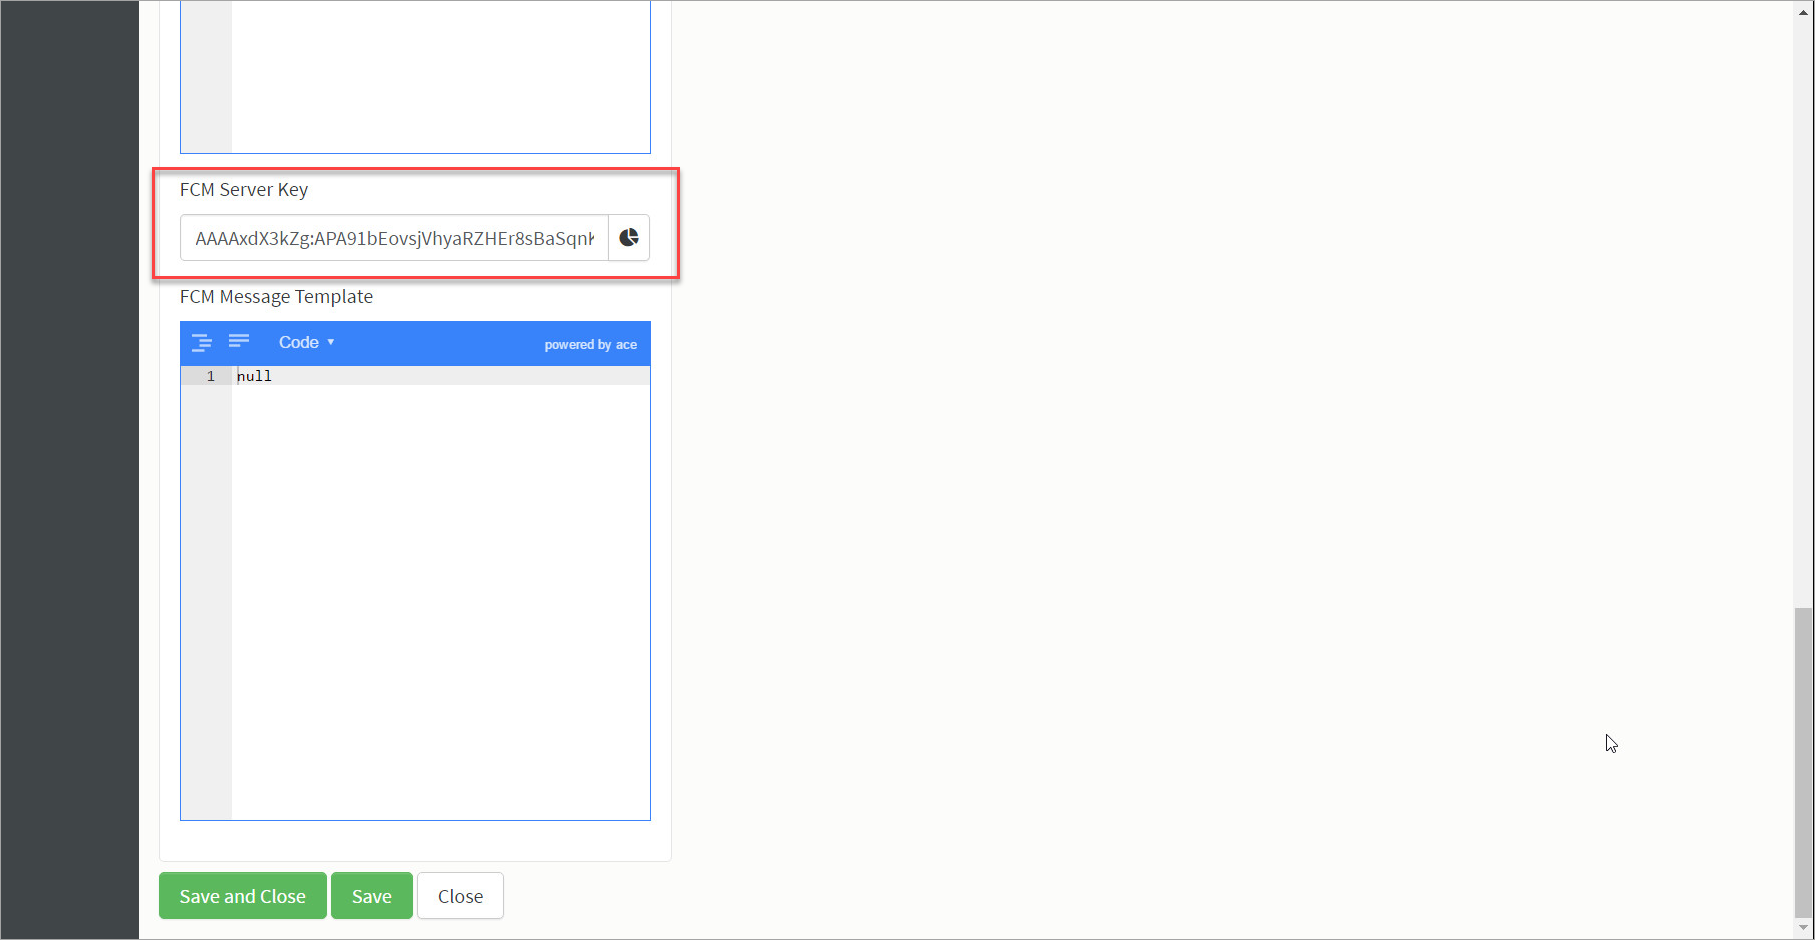
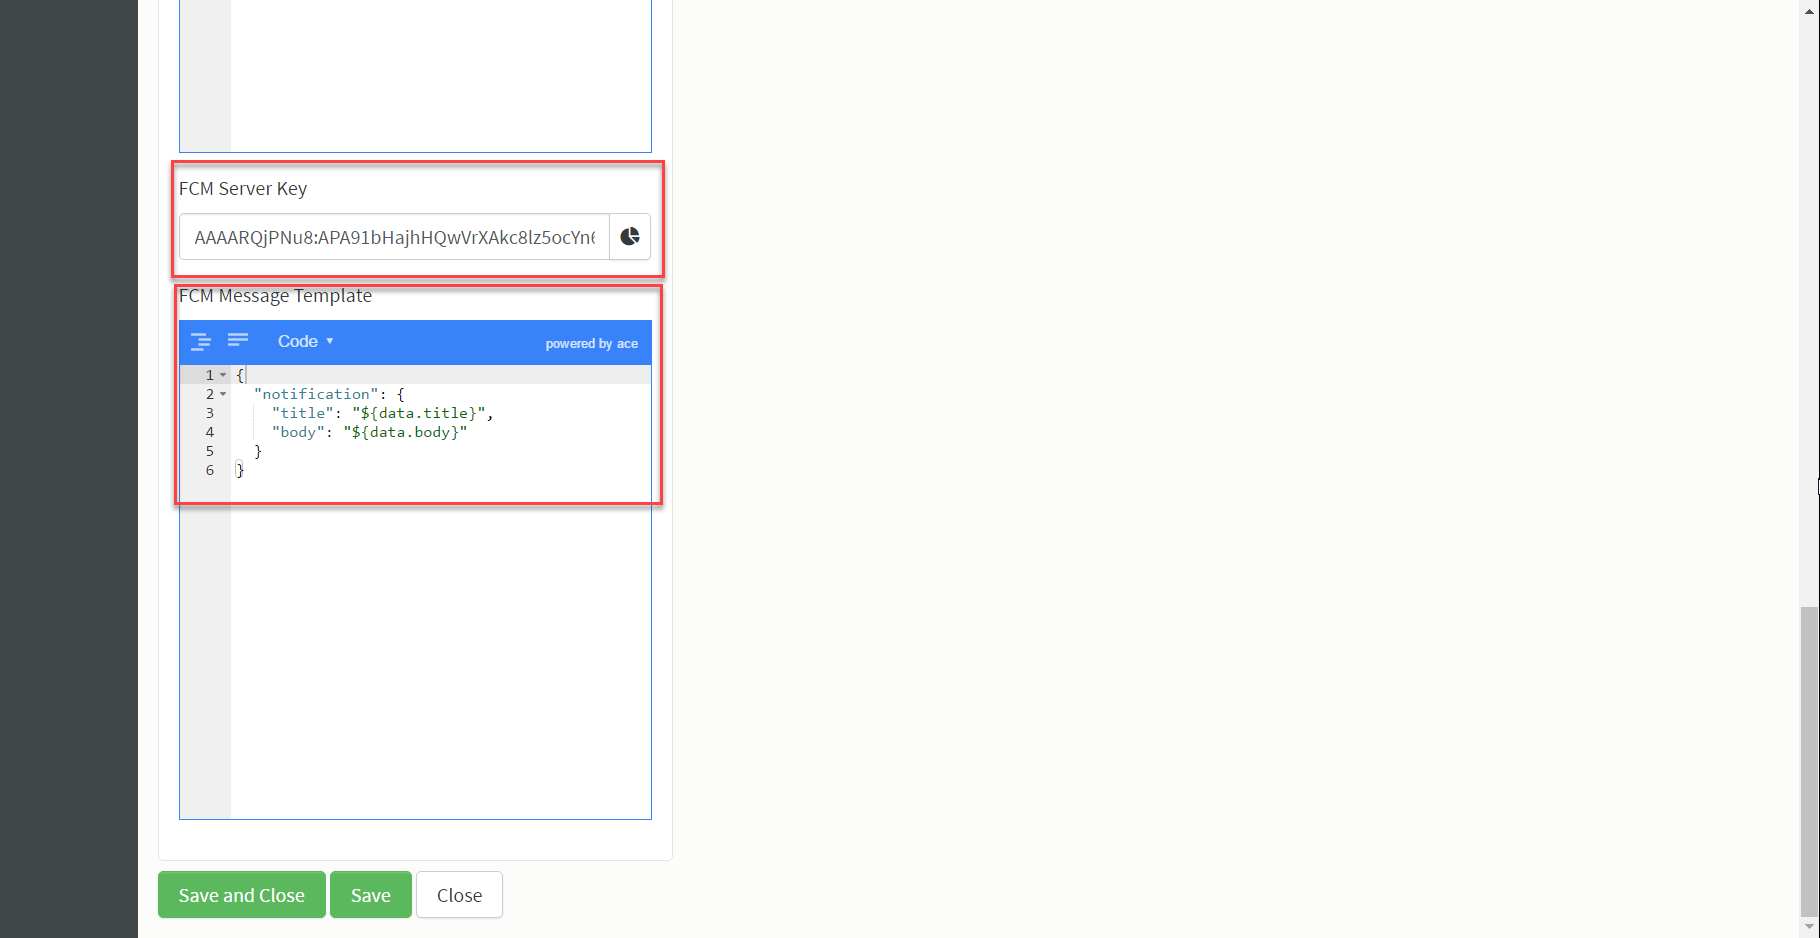
Various finalization updates for latest Portal2 build; Live Ops and FCM messaging tutorial added.

diff --git a/MARKDOWN/Tutorials/Social Features/Configuring Firebase Cloud Messaging.md b/MARKDOWN/Tutorials/Social Features/Configuring Firebase Cloud Messaging.md
@@ -5,18 +5,16 @@ src: /Tutorials/Social Features/Configuring Firebase Cloud Messaging.md
 
 # How to Configure Google Firebase Cloud Messaging service
 
-Google allows push notifications through its Firebase Cloud Messaging (FCM) service. FCM is a multi-platform service available on Android, iOS, and Web based applications.
+Google allows push notifications through its Firebase Cloud Messaging service (FCM). FCM is a multi-platform service available on Android, iOS, and Web based applications. In this tutorial, you'll learn how to set up your application with FCM, enable push notifications, and get your GameSparks game set up to allow it to send notifications to your players on your behalf.
 
-In this tutorial, you'll learn how to set up your application with FCM, enable push notifications, and get your GameSparks game set up to allow it to send notifications to your players on your behalf.
+The GameSparks implementation for Firebase Cloud Messaging supports both data messaging and notifications - for more information on Firebase messaging, see [here](https://firebase.google.com/docs/cloud-messaging).
 
-## Creating an Application on Firebase
+## Creating your Application on Firebase
 
 Firstly, you need to set up an application with [Firebase](https://console.firebase.google.com/):
-* Click *CREATE NEW PROJECT*:
+* Click *Create New Project*, give your project a name and a region, then click *Create*:
 
 ![](img/FirebaseCM/1.png)
-
-On the *Create a project* dialog, give your project a name and a region, then click *CREATE PROJECT*:
 
 ![](img/FirebaseCM/2.png)
 
@@ -24,53 +22,67 @@ On the *Create a project* dialog, give your project a name and a region, then cl
 
 Once your app has been created:
 
-*1.* Click The *Settings* button - the cog icon under your project name - and then click *Project Settings*.
+*1.* Click the *Settings* button (Cog under your project name) and then select *Project Settings*:
 
 ![](img/FirebaseCM/3.png)
 
-*2.* Click the *Cloud Messaging* tab and you'll see your *Server key* under *Project Credentials*:
+*2.* Click the *CLOUD MESSAGING* tab and you'll see your key:
 
 ![](img/FirebaseCM/4.png)
 
 
 ## Configuring your GameSparks Game
 
-Now that you have the Firebase *Server key*, the next step is to configure your GameSparks game so that you can send push notifications.
+Now that you have the Server key, it's time to configure your GameSparks game to enable us to send push notifications on your behalf.
 
-*1.* Navigate to *Configurator > Integrations*:
+*1.* Navigate to *Configurator > Integrations* and select *Google* (Your game must have Google integration enabled):
 
 ![](img/FirebaseCM/5.png)
 
-*2.* Select *Google* (Your game must have Google integration enabled):
-
 ![](img/FirebaseCM/6.png)
 
-*3.* Click *Edit*.
+*2.* Click *Edit*.
 
-*4.* Scroll down to *FCM Server Key* field.
+*3.* Scroll down the edit page and enter the Server key from the Firebase Console into the *FCM Server Key* field.
 
-*5.* Enter the Server key from the Firebase Console into the *FCM Server Key* field:
+*4.* Under *FCM Message Template*, create a message template, here's our example:
+
+```
+{
+  "notification": {
+  "title": "${data.title}",
+  "body": "${data.body}"
+  }
+}
+
+```
 
 ![](img/FirebaseCM/7.png)
 
-*6.* Click *Save*.
+
+The data object is created when sending a message through Cloud Code. Our data object has two string values, *title* and *body*. These values are set by you:
+* An example our message creation can be found in the testing section of this guide [below](#Testing your FCM Push Notification).
+* For more information [click here](/Documentation/Configurator/Messages.md).
+
+*5.* Click *Save*.
 
 That's all there is to it! Your GameSparks game is now configured to send push notifications to your players on your behalf.
 
-## Implementing FCM on your application
 
-Full details of the FCM implementation is beyond the scope of this tutorial, but there are excellent resources available to help you get going with this. The [official Firebase documentation](https://firebase.google.com/docs/cloud-messaging) is a great place to start and covers registering your player's device with FCM depending on your platform.
+## Implementing FCM on your Application
+
+The details of the FCM implementation for your app are beyond the scope of this tutorial, but there are excellent resources available to help you get going with this - check out [the official Firebase documentation](https://firebase.google.com/docs/cloud-messaging) as a great place to start. This covers how to register your player's device with FCM depending on your platform.
 
 
 ## Registering a Device for Push Notifications
 
-The final step required to actually deliver a push notification is for the GameSparks service to be able to identify your player's device and thus be able to send the notifications. This is accomplished with a [PushRegistrationRequest](/API Documentation/Request API/Misc/PushRegistrationRequest.md).
+The final step required to actually deliver a push notification is for the GameSparks service to be able to identify your player's device to be able to send the notifications. This is accomplished with a [PushRegistrationRequest](/API Documentation/Request API/Misc/PushRegistrationRequest.md).
 
 For an authenticated player in the GameSparks Test Harness, send:
 
 ```
 { "@class": ".PushRegistrationRequest",
-"deviceOS": "fcm",
+"deviceOS": "FCM",
 "pushId": "DEVICE_REGISTRATION_ID",
 "requestId": "1399640846121" }
 
@@ -85,6 +97,23 @@ Where *DEVICE_REGISTRATION_ID* is the registration id returned from the call to:
 | iOS/Swift  | let token = FIRInstanceID.instanceID().token()!  |
 | Web  | firebase.messaging()  |
 
-The GameSparks platform is now capable of pushing messages to this player, even while they're not actually playing your game.
+The GameSparks platform is now capable of pushing messages to this player, even while they're not playing your game. For more details on push notifications within the GameSparks platform, check out [Messaging](/Documentation/Key Concepts/Messaging.md).
 
-For more details on push notifications within the GameSparks platform, check out [Messaging](/Documentation/Key Concepts/Messaging.md).
+## Testing your FCM Push Notification
+
+You can quickly test to see if your set up works:
+
+*1.* Create an Event.
+
+*2.* In your Event's Cloud Code, create a message and send a message. Here's our example:
+
+```
+Spark.sendMessage({"title":"test title","body":"test body"}, [Spark.getPlayer()]);
+
+```
+
+*3.* Head over to the *Messages* section in *Configurator*.
+
+*4.* On the *Standard Messages* tab, edit the *ScriptMessage* and set the *Supress Push On Socket Send* to *Off*. This will allow you receive the notification through push even if you have the game on.
+
+*5.* Run your app on your mobile device and call the Event in app or through the Test Harness. Your message and title should appear as a notification on your phone.

diff --git a/MARKDOWN/Getting Started/Creating a Game/README.md b/MARKDOWN/Getting Started/Creating a Game/README.md
@@ -88,6 +88,14 @@ When you create a game, the game is put into *Preview* stage.  There are two st
 
 You should remain in *Preview* as you develop and test your game. When you are happy with the state of your game, you can create a *Snapshot*.  A game *Snapshot* takes a copy of everything you've created up to that point in the game's development.  You can then publish the *Snapshot*.  Publishing the *Snapshot* will copy the game as it was when the *Snapshot* was taken and moves the game from *Preview* stage into *Live* stage.
 
+When you publish one of you game's Snapshots from *Preview* to *Live* for the first time, a confirmation dialog appears. This acts as a reminder, which you can use this to finally decide on the *Primary Region* for your game:
+
+![l](img/CreatingGame/13.png)
+
+* In this example, although we selected the *Americas* as the game's primary region when we created the game, we've changed the *Primary Region* to Asia, since we expect most of our players to be located in this region. If we hadn't changed the region for the published game, players in Asia would have been far more susceptible to possible latency issues when playing the game:
+  * **IMPORTANT!** When you have selected the *Primary Region* on first publication of a Snapshot, you cannot change it on any subsequent Snapshot publication!
+  * **I don't know** If you've not selected for a specific *Primary Region* when you created your game, you can leave this as the selection and publication will not be blocked. However, the region used for your game is unpredictable.
+
 <q>**Going Live Checklist!** Before you attempt to create a Snapshot of your game and publish it to Live, please review the [Going Live Checklist](/Getting Started/Going Live Checklist/README.md) to ensure everything runs smoothly.</q>
 
 ### Managing the Game's Life Cycle
@@ -104,7 +112,7 @@ Page  | Enabled
 -----  | -----------
 NoSQL Explorer   | Only if a game configuration Snapshot has been published.
 Manage Screens    | Only if a game configuration Snapshot has been published.
-Experiment Results    | Only if a game configuration Snapshot has been published.
+Experiment Results    | Only if the Experiment has been published.
 Analytics Overview    | Always.
 Analytics API Stream    | Only if a game configuration Snapshot has been published.
 Test Harness    | Always.

diff --git a/MARKDOWN/Documentation/Configurator/Messages.md b/MARKDOWN/Documentation/Configurator/Messages.md
@@ -24,7 +24,7 @@ The *Message Configuration* panel contains two tabs:
 
 *2.* To configure a standard message type, click the edit ![](/img/icons/editicon.png) icon for a message. The page adjusts:
 
-![](img/Noti/10.png)
+![](img/Noti/14.png)
 
 In this example, the edit dialog for the *AchievementEarnedMessage* is shown.
 
@@ -50,7 +50,7 @@ In this example, the edit dialog for the *AchievementEarnedMessage* is shown.
 * *Advanced configuration* \- See Step 4 below.
 * *Segment configuration* \- Click the button at the top of the create panel to configure any *Segment* configuration you want to apply to the message. (See [section](#Different Messages for Different Players) below)
 
-*4.* If the standard configuration available for your push notification messages doesn't give you what you want, you can use *Advanced configuration* for 3 supported providers. For each of these, a JSON template editor is provided, for example *iOS for Apple*:
+*4.* If the standard configuration available for your push notification messages doesn't give you what you want, you can use *Advanced configuration* for 4 supported providers. For each of these, a JSON template editor is provided, for example *iOS for Apple*:
 
 ![](img/Noti/11.png)
 
@@ -58,6 +58,7 @@ Here are some examples of the formats you can use for these providers:
 * *iOS for Apple* \- {"aps":{"badge":1,"alert":"${summary}"}}
 * *Kindle for Amazon* \- {"expiresAfter":86400,"data":{"Message":"${Summary}","Title":"${title}", "messageId":"57dbcf149f68b50583cf9ab5","SubTitle":"${subtitle}" ,"MessageCount":21}}
 * *Android for Google* \- {"tickerText" : "${summary}" , "subtitle" : "${subtitle}" , "title" : "${title}" , "messageCount" : "1" , "messageId" : "57dbcfbb9f68b50583cf9ab7"}
+* *Firebase Cloud Messaging* \- {"notification": {{"Title":"${data.title}","body": "${data.body}"}}}
 
 <q>**Provider Documentation!** Please read the relevant provider-side documentation to ensure the message format you use is valid for the receiving device.</q>
 

diff --git a/MARKDOWN/SDK Center/Android.md b/MARKDOWN/SDK Center/Android.md
@@ -109,11 +109,11 @@ Now to initialize the GS module and connect our frontend to our backend!
 
 ```
 
-GSAndroidPlatform.initialise(this, "YOUR KEY", "YOUR SECRET", false, true);
+GSAndroidPlatform.initialise(this, "YOUR KEY", "YOUR SECRET", "YOUR CREDENTIAL", liveMode, autoUpdate);
 
 ```
 
-Now you need an API key and secret, which you are given when you create a game on our platform, click [here](/Getting Started/Creating a Game/README.md) for a quick guide to show you how.
+Now you need an API key and secret, which you are given when you create a game on our platform, click [here](/Getting Started/Creating a Game/README.md) for a quick guide to show you how. You will also need the Credential you are using - if you pass an empty String, then the default *device* Credential will be used.
 
 *7.* Once that's done, you now need to start the connection. To do that, place this code in the activity's code body:
 
@@ -122,12 +122,10 @@ Now you need an API key and secret, which you are given when you create a game o
 	public void onStart()
 	{
 		super.onStart();
-		GSAndroidPlatform.gs().stop();
+
 		GSAndroidPlatform.gs().start();
 	}
 
 ```
-
-The reason we stop the module before we start it is to establish a new connection which works to refresh the connection.
 
 <q>**Done!** After all this is done, you now are ready to use GameSparks API in your Android project. Details of the API can be found [here](/API Documentation/README.md)</q>

diff --git a/MARKDOWN/SDK Center/Unity.md b/MARKDOWN/SDK Center/Unity.md
@@ -177,19 +177,13 @@ Each request type in the platform now has it’s own class. To send an authentic
 9
 ```
 
-There are 3 variants of the Send method. Where “OUT” is the specific response type, the request will return
+There are 4 variants of the Send method. Where “OUT” is the specific response type, the request will return
 
-```
-public OUT Send ()
-
-```
-
-* Blocking send method, the thread will wait for a response.
 
 ```
 public void Send (Action<OUT> callback)
 ```
-* Async send method, the provided action will be invoked when the response is received, the action should check for errors in the response using response.HasErrors.
+* Async send method, the provided action will be invoked when the response is received, the action should check for errors in the response using *response.HasErrors*.
 
 ```
 public void Send (Action<OUT> callback, int timeoutSeconds)
@@ -200,7 +194,7 @@ public void Send (Action<OUT> callback, int timeoutSeconds)
 public void Send (Action<OUT> successCallback, Action<OUT> errorCallback)
 
 ```
-* Async send method, the SDK will invoke the correct action based on the HasErrors property of the reponse.
+* Async send method, the SDK will invoke the correct action based on the *HasErrors* property of the reponse.
 
 ```
 public void Send (Action<OUT> successCallback, Action<OUT> errorCallback, int timeoutSeconds)

diff --git a/MARKDOWN/API Documentation/REST APIs/README.md b/MARKDOWN/API Documentation/REST APIs/README.md
@@ -15,7 +15,7 @@ The GameSparks API is a RESTful API that can be used to access authentication, g
 
 ## Schema
 
-* All API access is over HTTPS, and accessed from the https://portal.gamesparks.net for game management and https://apiKey.{stage}.gamesparks.net for service server.
+* All API access is over HTTPS.
 * All data is sent and received as JSON.
 * All dates and timestamps are returned in ISO 8601 format:
 
@@ -26,6 +26,7 @@ YYYY-MM-DD and YYYY-MM-DDTHH:MM:SSZ
 ```
 
 ## Authentication
+
 Authentication is performed using Basic Authentication (with your portal credentials).
 
 ## HTTP Verbs

diff --git a/MARKDOWN/Tutorials/Database Access and Cloud Storage/Uploading Binary Content from Game.md b/MARKDOWN/Tutorials/Database Access and Cloud Storage/Uploading Binary Content from Game.md
@@ -98,7 +98,7 @@ The final step is to actually retrieve the content that has been uploaded.
 
 ```
 {
-  "@class": ".GetUploadUrlRequest",
+  "@class": ".GetUploadedRequest",
   "uploadId":"635ec5dda1bc40b9b53e30618e1d8fff"
 }
 
